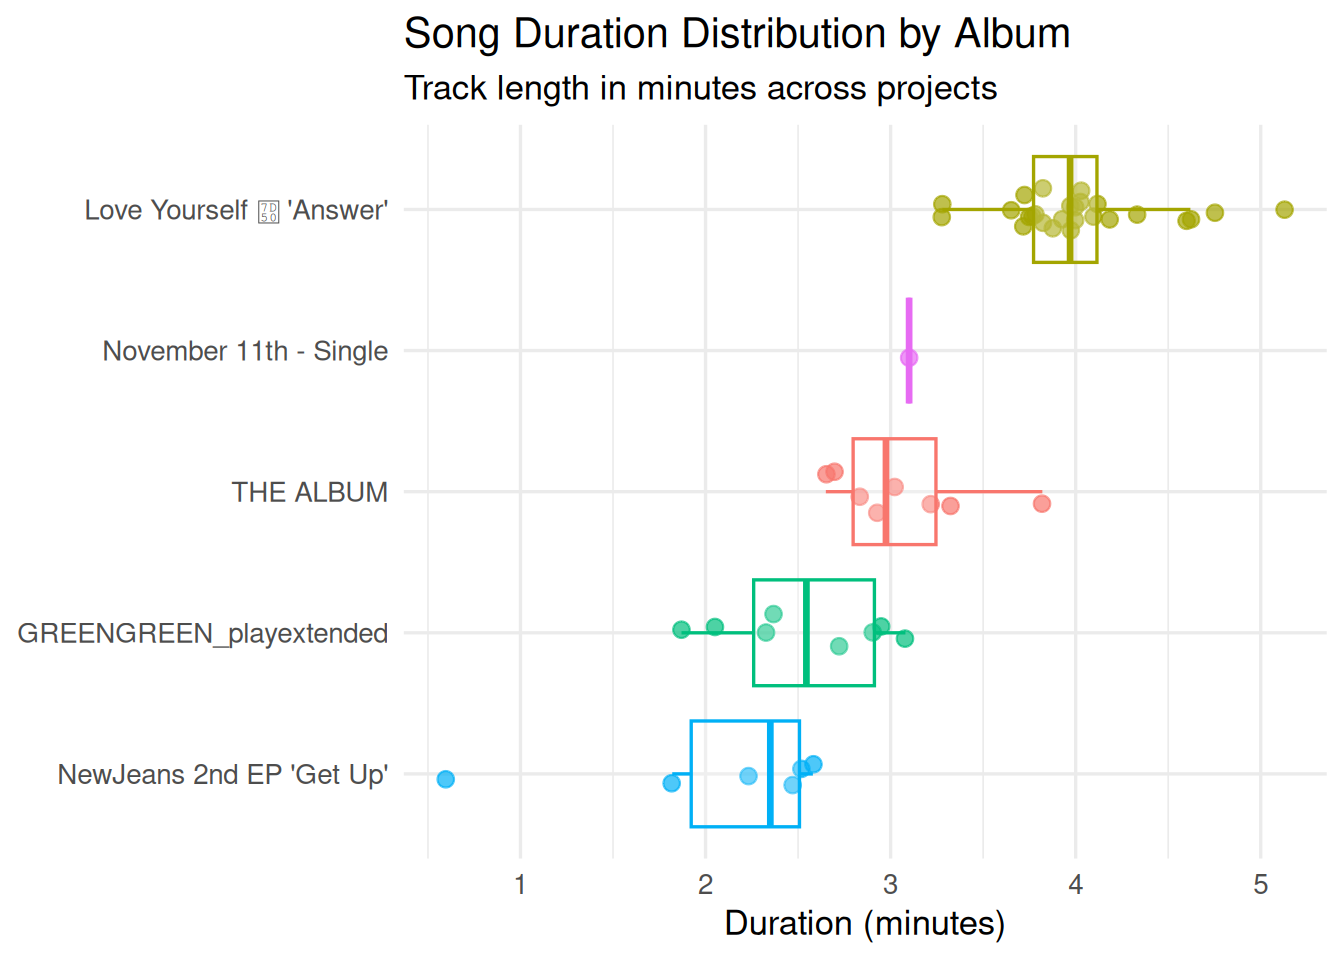
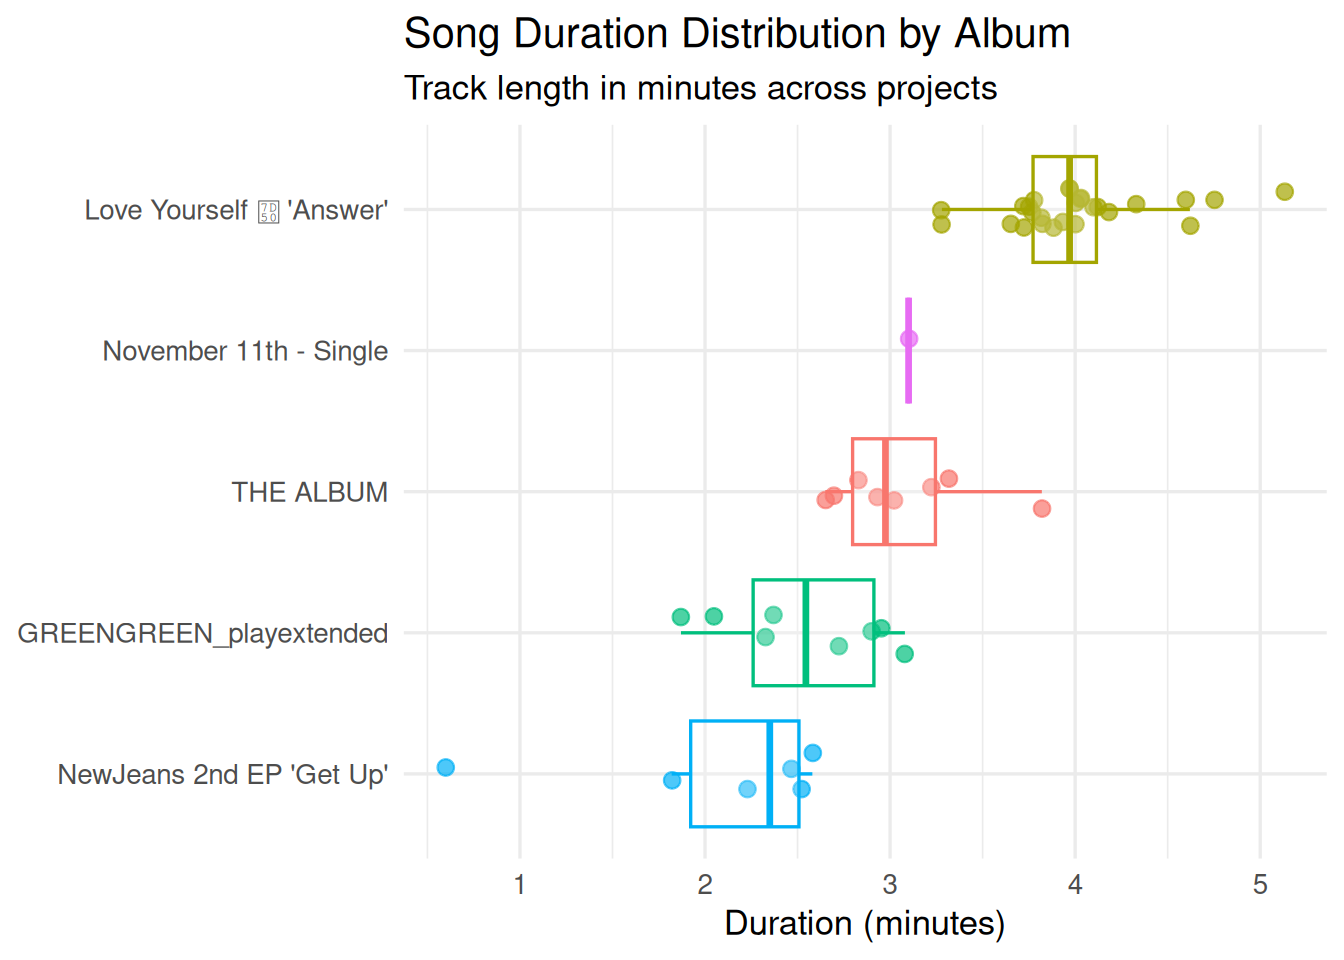
Built site for gh-pages

diff --git a/analysis.html b/analysis.html
@@ -251,6 +251,41 @@ ul.task-list li input[type="checkbox"] {
 </section>
 
 </main> <!-- /main -->
+<script>
+function burstStickers() {
+  const stickers = ['✨', '💖', '💿', '🎵', '🌸', '🫰', '⭐', '🎶', '🎀', '🎧'];
+  const count = 9; // lightweight count to eliminate lag
+  const fragment = document.createDocumentFragment(); // batch all stickers into a single DOM update
+  
+  for (let i = 0; i < count; i++) {
+    const el = document.createElement('div');
+    el.className = 'popup-sticker';
+    el.textContent = stickers[Math.floor(Math.random() * stickers.length)];
+    el.style.left = (Math.random() * 80 + 10) + 'vw';
+    el.style.top = (Math.random() * 70 + 15) + 'vh';
+    el.style.setProperty('--rot', (Math.random() * 30 - 15) + 'deg');
+    el.style.animationDelay = (Math.random() * 0.15) + 's';
+    
+    fragment.appendChild(el);
+    setTimeout(() => el.remove(), 1600);
+  }
+  
+  document.body.appendChild(fragment);
+}
+
+// Burst smoothly after page content loads
+window.addEventListener('DOMContentLoaded', () => {
+  requestAnimationFrame(burstStickers);
+});
+
+// Trigger burst when clicking navigation links
+document.addEventListener('click', (e) => {
+  const link = e.target.closest('a');
+  if (link && link.getAttribute('href') && !link.getAttribute('href').startsWith('#')) {
+    burstStickers();
+  }
+});
+</script>
 <script id="quarto-html-after-body" type="application/javascript">
   window.document.addEventListener("DOMContentLoaded", function (event) {
     const icon = "";

diff --git a/index.html b/index.html
@@ -589,6 +589,41 @@ document.addEventListener('play', (e) => {
 
 
 </main> <!-- /main -->
+<script>
+function burstStickers() {
+  const stickers = ['✨', '💖', '💿', '🎵', '🌸', '🫰', '⭐', '🎶', '🎀', '🎧'];
+  const count = 9; // lightweight count to eliminate lag
+  const fragment = document.createDocumentFragment(); // batch all stickers into a single DOM update
+  
+  for (let i = 0; i < count; i++) {
+    const el = document.createElement('div');
+    el.className = 'popup-sticker';
+    el.textContent = stickers[Math.floor(Math.random() * stickers.length)];
+    el.style.left = (Math.random() * 80 + 10) + 'vw';
+    el.style.top = (Math.random() * 70 + 15) + 'vh';
+    el.style.setProperty('--rot', (Math.random() * 30 - 15) + 'deg');
+    el.style.animationDelay = (Math.random() * 0.15) + 's';
+    
+    fragment.appendChild(el);
+    setTimeout(() => el.remove(), 1600);
+  }
+  
+  document.body.appendChild(fragment);
+}
+
+// Burst smoothly after page content loads
+window.addEventListener('DOMContentLoaded', () => {
+  requestAnimationFrame(burstStickers);
+});
+
+// Trigger burst when clicking navigation links
+document.addEventListener('click', (e) => {
+  const link = e.target.closest('a');
+  if (link && link.getAttribute('href') && !link.getAttribute('href').startsWith('#')) {
+    burstStickers();
+  }
+});
+</script>
 <script id="quarto-html-after-body" type="application/javascript">
   window.document.addEventListener("DOMContentLoaded", function (event) {
     const icon = "";

diff --git a/about.html b/about.html
@@ -148,6 +148,41 @@ ul.task-list li input[type="checkbox"] {
 
 
 </main> <!-- /main -->
+<script>
+function burstStickers() {
+  const stickers = ['✨', '💖', '💿', '🎵', '🌸', '🫰', '⭐', '🎶', '🎀', '🎧'];
+  const count = 9; // lightweight count to eliminate lag
+  const fragment = document.createDocumentFragment(); // batch all stickers into a single DOM update
+  
+  for (let i = 0; i < count; i++) {
+    const el = document.createElement('div');
+    el.className = 'popup-sticker';
+    el.textContent = stickers[Math.floor(Math.random() * stickers.length)];
+    el.style.left = (Math.random() * 80 + 10) + 'vw';
+    el.style.top = (Math.random() * 70 + 15) + 'vh';
+    el.style.setProperty('--rot', (Math.random() * 30 - 15) + 'deg');
+    el.style.animationDelay = (Math.random() * 0.15) + 's';
+    
+    fragment.appendChild(el);
+    setTimeout(() => el.remove(), 1600);
+  }
+  
+  document.body.appendChild(fragment);
+}
+
+// Burst smoothly after page content loads
+window.addEventListener('DOMContentLoaded', () => {
+  requestAnimationFrame(burstStickers);
+});
+
+// Trigger burst when clicking navigation links
+document.addEventListener('click', (e) => {
+  const link = e.target.closest('a');
+  if (link && link.getAttribute('href') && !link.getAttribute('href').startsWith('#')) {
+    burstStickers();
+  }
+});
+</script>
 <script id="quarto-html-after-body" type="application/javascript">
   window.document.addEventListener("DOMContentLoaded", function (event) {
     const icon = "";

diff --git a/styles.css b/styles.css
@@ -111,3 +111,33 @@
   width: 100%;
   height: 30px;
 }
+
+/* Pop-up sticker animations */
+@keyframes stickerPop {
+  0% {
+    transform: translate3d(0, 0, 0) scale(0) rotate(0deg);
+    opacity: 0;
+  }
+  25% {
+    transform: translate3d(0, 0, 0) scale(1.3) rotate(var(--rot, 0deg));
+    opacity: 1;
+  }
+  75% {
+    transform: translate3d(0, -20px, 0) scale(1) rotate(var(--rot, 0deg));
+    opacity: 0.9;
+  }
+  100% {
+    transform: translate3d(0, -40px, 0) scale(0.6) rotate(var(--rot, 0deg));
+    opacity: 0;
+  }
+}
+
+.popup-sticker {
+  position: fixed;
+  pointer-events: none;
+  z-index: 99999;
+  font-size: 2rem;
+  will-change: transform, opacity;
+  animation: stickerPop 1.4s ease-out forwards;
+  user-select: none;
+}
